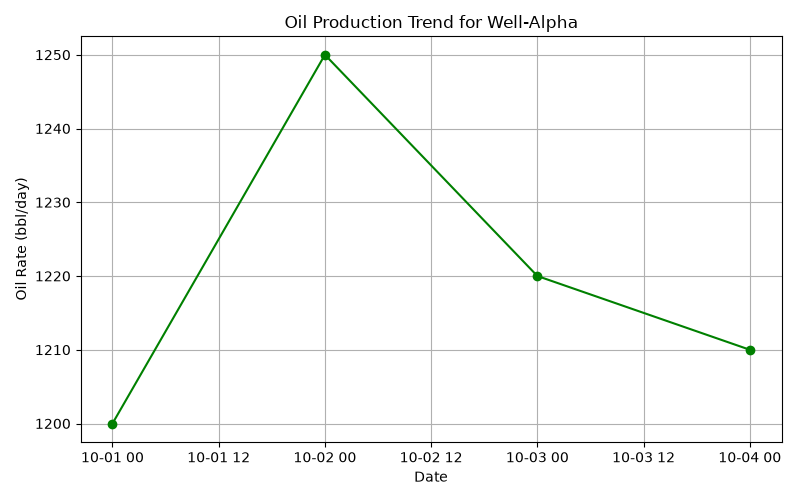
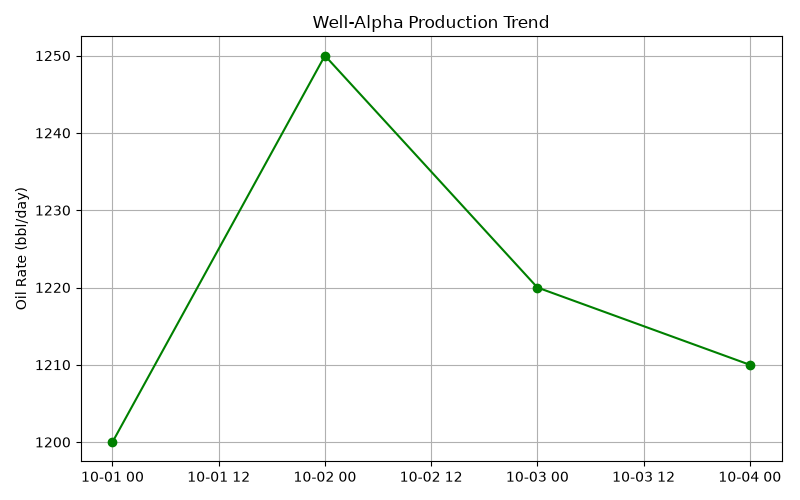
Refactor: clean up code and finalize statistical analysis

diff --git a/analysis.py b/analysis.py
@@ -1,95 +1,97 @@
 import sqlite3
 import pandas as pd
 import matplotlib.pyplot as plt
+from scipy import stats
 
-# 1. Connect to the SQLite database
-connection = sqlite3.connect('oil_field_project.db')
+# Connect to the SQLite database
+conn = sqlite3.connect('oil_field_project.db')
 
-# 2. Read data from both tables
-query_wells = "SELECT * FROM project_wells;"
-df = pd.read_sql_query(query_wells, connection)
+# Read tables into DataFrames
+wells_df = pd.read_sql_query("SELECT * FROM project_wells", conn)
+prod_df = pd.read_sql_query("SELECT * FROM project_production", conn)
 
-query_prod = "SELECT * FROM project_production;"
-df_prod = pd.read_sql_query(query_prod, connection)
+# Close connection after loading data
+conn.close()
 
-# 3. Merge the tables based on the well_id
-df_merged = pd.merge(df, df_prod, on='well_id')
+# Merge the two tables on well_id
+df = pd.merge(wells_df, prod_df, on='well_id')
 
-# 4. Handle missing values in the oil_rate column
-df_merged['oil_rate'] = df_merged['oil_rate'].fillna(0)
+# Fill missing oil rates with 0 (e.g., wells under maintenance)
+df['oil_rate'] = df['oil_rate'].fillna(0)
 
-# 5. Close the database connection
-connection.close()
-
-print("Data loaded and merged successfully.\n")
-
-# --- 6. Statistical Summary ---
 print("--- Statistical Summary ---")
-print(df_merged[['depth_m', 'pressure_bar', 'oil_rate']].describe())
-print("\n")
+print(df[['depth_m', 'pressure_bar', 'oil_rate']].describe())
 
-# --- 7. Data Visualization (Saving plots as images) ---
+# Calculate basic metrics for oil rate
+mean_oil = df['oil_rate'].mean()
+median_oil = df['oil_rate'].median()
+std_oil = df['oil_rate'].std()
 
-# Plot 1: Bar Chart (Average Oil Rate per Well)
-avg_oil_rate = df_merged.groupby('well_name')['oil_rate'].mean()
+print(f"\nMean: {mean_oil:.2f} | Median: {median_oil:.2f} | Std Dev: {std_oil:.2f}")
+
+# T-test comparing North vs South fields
+north = df[df['field_name'] == 'North Field']['oil_rate']
+south = df[df['field_name'] == 'South Field']['oil_rate']
+t_stat, p_val = stats.ttest_ind(north, south, nan_policy='omit')
+
+print(f"\nHypothesis Test - T-stat: {t_stat:.2f}, P-value: {p_val:.4f}")
+if p_val < 0.05:
+    print("Conclusion: Significant difference in production.")
+else:
+    print("Conclusion: No significant difference between fields.")
+
+# --- Plotting ---
+
+# 1. Average oil rate per well
+avg_rate = df.groupby('well_name')['oil_rate'].mean()
 plt.figure(figsize=(8, 5))
-avg_oil_rate.plot(kind='bar', color='skyblue')
-plt.title('Average Oil Rate per Well')
-plt.xlabel('Well Name')
-plt.ylabel('Average Oil Rate (bbl/day)')
+avg_rate.plot(kind='bar', color='skyblue')
+plt.title('Average Oil Rate by Well')
+plt.ylabel('Oil Rate (bbl/day)')
 plt.tight_layout()
 plt.savefig('plot1_avg_oil_rate.png')
 plt.close()
-print("Saved: plot1_avg_oil_rate.png")
 
-# Plot 2: Line Chart (Production Trend for Well-Alpha)
-df_merged['production_date'] = pd.to_datetime(df_merged['production_date'])
-well_alpha_data = df_merged[df_merged['well_name'] == 'Well-Alpha'].sort_values('production_date')
+# 2. Production trend over time for Well-Alpha
+df['production_date'] = pd.to_datetime(df['production_date'])
+alpha_data = df[df['well_name'] == 'Well-Alpha'].sort_values('production_date')
 plt.figure(figsize=(8, 5))
-plt.plot(well_alpha_data['production_date'], well_alpha_data['oil_rate'], marker='o', color='green', linestyle='-')
-plt.title('Oil Production Trend for Well-Alpha')
-plt.xlabel('Date')
+plt.plot(alpha_data['production_date'], alpha_data['oil_rate'], marker='o', color='green')
+plt.title('Well-Alpha Production Trend')
 plt.ylabel('Oil Rate (bbl/day)')
 plt.grid(True)
 plt.tight_layout()
 plt.savefig('plot2_well_alpha_trend.png')
 plt.close()
-print("Saved: plot2_well_alpha_trend.png")
 
-# Plot 3: Histogram (Distribution of Oil Rate)
+# 3. Distribution of oil rates
 plt.figure(figsize=(8, 5))
-plt.hist(df_merged['oil_rate'], bins=5, color='purple', edgecolor='black')
-plt.title('Distribution of Oil Rate')
+plt.hist(df['oil_rate'], bins=5, color='purple', edgecolor='black')
+plt.title('Oil Rate Distribution')
 plt.xlabel('Oil Rate (bbl/day)')
 plt.ylabel('Frequency')
 plt.tight_layout()
 plt.savefig('plot3_oil_rate_distribution.png')
 plt.close()
-print("Saved: plot3_oil_rate_distribution.png")
 
-# Plot 4: Scatter Plot (Pressure vs Oil Rate)
+# 4. Pressure vs Oil Rate scatter plot
 plt.figure(figsize=(8, 5))
-plt.scatter(df_merged['pressure_bar'], df_merged['oil_rate'], color='red', alpha=0.7)
-plt.title('Relationship between Pressure and Oil Rate')
+plt.scatter(df['pressure_bar'], df['oil_rate'], color='red', alpha=0.7)
+plt.title('Pressure vs Oil Rate')
 plt.xlabel('Pressure (bar)')
 plt.ylabel('Oil Rate (bbl/day)')
 plt.grid(True)
 plt.tight_layout()
 plt.savefig('plot4_pressure_vs_oil_rate.png')
 plt.close()
-print("Saved: plot4_pressure_vs_oil_rate.png")
 
-# Plot 5: Box Plot (Oil Rate)
+# 5. Box plot to find outliers
 plt.figure(figsize=(6, 5))
-plt.boxplot(df_merged['oil_rate'], patch_artist=True, boxprops=dict(facecolor='lightblue'))
+plt.boxplot(df['oil_rate'], patch_artist=True, boxprops=dict(facecolor='lightblue'))
 plt.title('Box Plot of Oil Rate')
 plt.ylabel('Oil Rate (bbl/day)')
 plt.tight_layout()
 plt.savefig('plot5_oil_rate_boxplot.png')
 plt.close()
-print("Saved: plot5_oil_rate_boxplot.png\n")
 
-# --- 8. Correlation Matrix ---
-print("--- Correlation Matrix ---")
-correlation_matrix = df_merged[['depth_m', 'pressure_bar', 'oil_rate']].corr()
-print(correlation_matrix) 
+print("\nAll plots saved successfully.")
